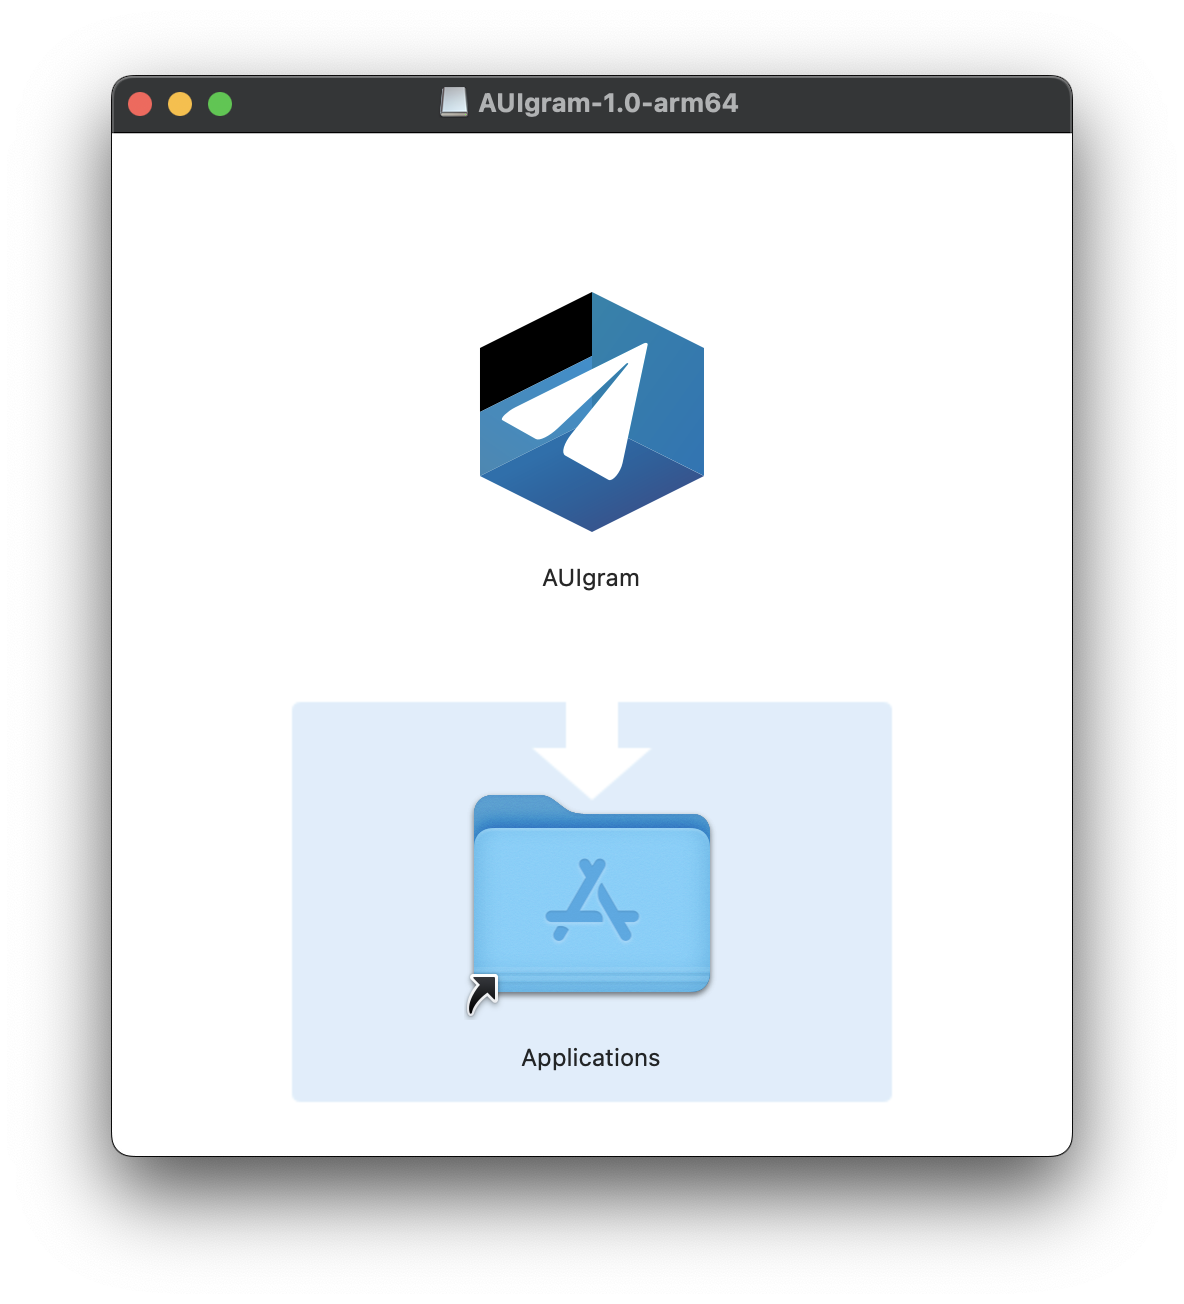
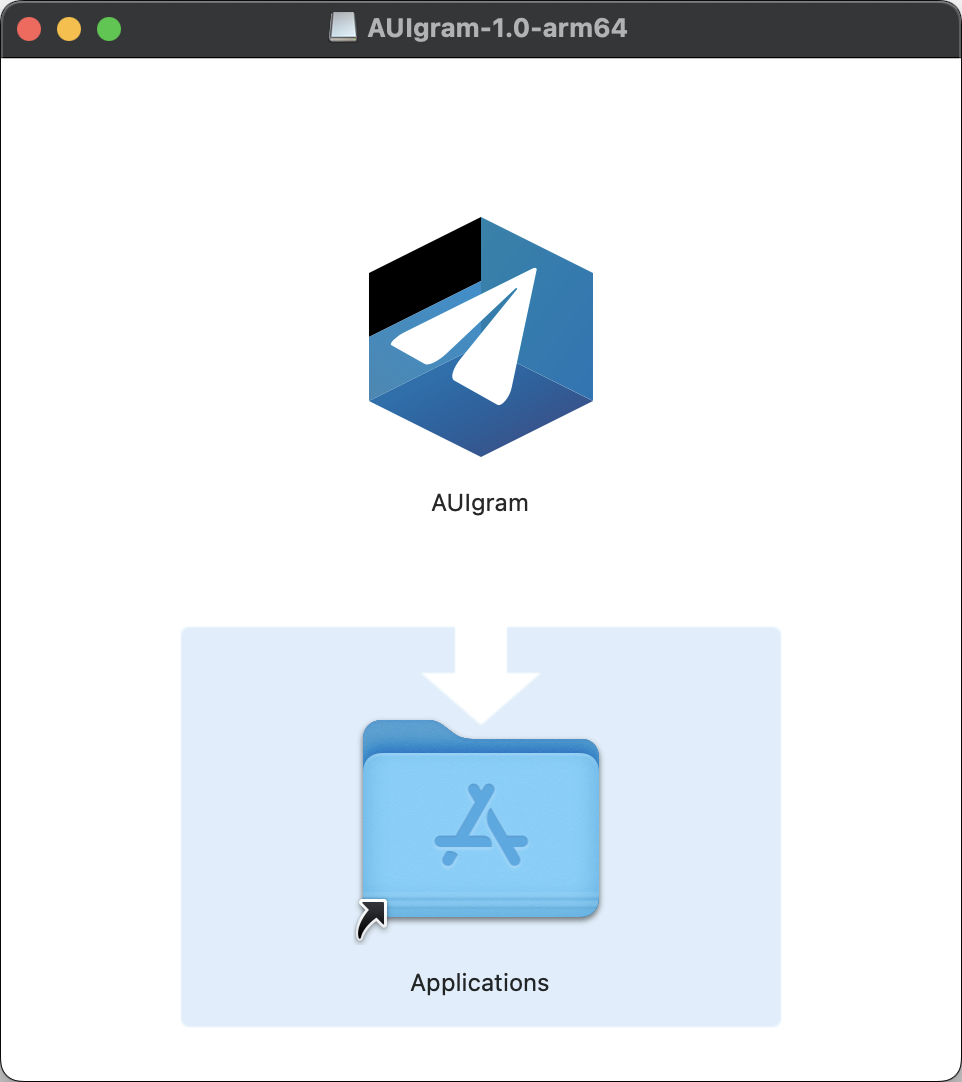
wip

diff --git a/doxygen/style.css b/doxygen/style.css
@@ -109,3 +109,7 @@ table.doxtable td, table.doxtable th {
     line-height: normal !important;
     margin: 48px 0 96px;
 }
+
+.dark-mode-keep-imgs img {
+    filter: none !important;
+}

diff --git a/doxygen/gen/aui_app_dmg.py b/doxygen/gen/aui_app_dmg.py
@@ -1,0 +1,12 @@
+#  AUI Framework - Declarative UI toolkit for modern C++20
+#  Copyright (C) 2020-2024 Alex2772 and Contributors
+#
+#  SPDX-License-Identifier: MPL-2.0
+#
+#  This Source Code Form is subject to the terms of the Mozilla Public
+#  License, v. 2.0. If a copy of the MPL was not distributed with this
+#  file, You can obtain one at http://mozilla.org/MPL/2.0/.
+
+import common.aui_app
+
+common.aui_app.list_all_vars_containing('DMG')

diff --git a/docs/Setting App Icon.md b/docs/Setting App Icon.md
@@ -5,7 +5,38 @@ overall user experience. Approach to app icon briefly resembles the overall qual
 While making distinct visuals for every platform can be challenging, AUI is here to help you to produce
 professional-grade app icons while preserving targeted platform's specifics.
 
-# Abstract
+@ref docs/aui_app.md is a CMake command provided by AUI that defines platform-specific technical information about your
+application, including @ref aui_app_ICON "ICON".
+
+```cmake
+aui_app(TARGET app_target
+        NAME "My App"
+        ICON "icon.svg")
+```
+
+`aui.toolbox` is used by `aui_app` to convert icon to platform-specific formats.
+
+AUI forces you to use SVG to ensure your icon renders correctly on all platforms.
+In addition, the usage of SVG avoids image pixelization on HiDPI (High Dots Per Inch) displays.
+
+If you only have images in raster formats (such as PNG, ICO, etc.) you need to vectorize by tracing the image.
+Modern vector image editors (such as Adobe Illustrator or Inkscape) have built-in tools to perform this procedure. If you wish, you can also use various online vectorizers.
+
+## Vectorization using Inkscape
+
+For instance, let's see how to vectorize your image using Inkscape editor. Just follow the next instruction:
+* First, import a suitable bitmap image by using the menu File → Import.
+* Select the image with the Selector tool.
+* In the menu, go to Path → Trace Bitmap.
+* A dialog will open where you can set different options. Play with them a little to get a better result.
+* When the result of the preview looks right, click Ok. The vectorized image will be available right on the canvas.
+* Remove your old raster bitmap and export got image in SVG format.
+
+## Known issues
+
+* AUI's SVG renderer does not show up SVG paths. The easiest solution is convert paths to polygons (shapes) in modern vector editor.
+
+# Shaping
 
 Modern operating systems tend to enforce icon shape to unify their launchers. For example, iOS is known for its
 distinctive "squircle" shape, a unique combination of square and circle with subtle curvature that deviates from the
@@ -19,11 +50,12 @@ For that being said, a typical shape-agnostic app icon consists of:
   Occasionally, it may incorporate gradients or abstract shapes to add visual interest. As the background layer often
   gets masked, its simplicity is key - it doesn't clutter the icon with important visual information, instead using
   colors playfully.
-- a **foreground** layer that typically holds a logo or other critical graphics. To ensure clean look it should be
+- a **foreground** layer(s) that typically holds a logo or other critical graphics. To ensure clean look it should be
   padded to fit naturally within icon's boundary which as was mentioned may differ.
 
 On the other hand, Windows and Linux applications tend to have non-uniform shapes.
 
+<div class="dark-mode-keep-imgs">
 <table>
 <tr>
 <th>Platform</th>
@@ -35,36 +67,41 @@ On the other hand, Windows and Linux applications tend to have non-uniform shape
 </tr>
 <tr>
 <td>Android</td>
-<td></td>
+<td>@image html icons_android.png </td>
 <td><a href="https://developer.android.com/distribute/google-play/resources/icon-design-specifications">Google</a></td>
 </tr>
 <tr>
 <td>iOS</td>
-<td rowspan="2"></td>
-<td rowspan="2"><a href="https://developer.apple.com/design/resources/#macos-apps">Apple</a></td>
+<td rowspan="2">@image html icons_apple.png </td>
+<td rowspan="2">
+  <a href="https://developer.apple.com/design/human-interface-guidelines/app-icons">Apple Developer</a><br/>
+  <a href="https://developer.apple.com/design/resources/#macos-apps">Apple Design Resources</a>
+</td>
 </tr>
 <tr>
-<td>macOS</td>
+<td>macOS<br/>(with some exceptions)</td>
 </tr>
 <tr>
 <td colspan="3" style="text-align: center"><i> - freeform trend - </i></td>
 </tr>
 <tr>
 <td>Windows</td>
-<td></td>
+<td>@image html icons_win.png </td>
 <td><a href="https://learn.microsoft.com/en-us/windows/apps/design/style/iconography/app-icon-design">Microsoft</a></td>
 </tr>
 <tr>
 <td rowspan="3">Linux</td>
-<td></td>
+<td rowspan="3">
+@image html icons_gnome.png
+@image html icons_kde.png
+</td>
 <td><a href="https://docs.flathub.org/docs/for-app-authors/metainfo-guidelines/quality-guidelines/">Flathub</a></td>
 </tr>
 <tr>
-<td></td>
 <td><a href="https://developer.gnome.org/hig/guidelines/app-icons.html">GNOME</a></td>
 </tr>
 <tr>
-<td></td>
 <td><a href="https://develop.kde.org/hig/icons/colorful/">KDE</a></td>
 </tr>
 </table>
+</div>

diff --git a/docs/aui_app.md b/docs/aui_app.md
@@ -86,7 +86,7 @@ Specify application display name that would appear in system's UIs (i.e., start 
 
 @pythongen{aui_app_NAME}
 
-### ICON
+### ICON {#aui_app_ICON}
 
 Specify SVG icon location (defaults to `icon.svg` if exists).
 
@@ -100,33 +100,10 @@ See @ref "docs/Setting App Icon.md" for best practices.
 | Android  | +        | generates icon assets from your `svg`                 |
 | iOS      | +        | generates `*.icns` file from your `svg`               |
 
-`aui_app` generates image assets from your icon depending on the @ref "docs/Packaging Your App.md" "app packaging method"
+Using `aui.toolbox`, `aui_app` generates image assets from your icon depending on the @ref "docs/Packaging Your App.md" "app packaging method"
 chosen.
 
-
 @pythongen{aui_app_ICON}
-
-#### Why SVG?
-
-AUI forces you to use SVG to ensure your icon renders correctly on all platforms.
-In addition, the usage of SVG avoids image pixelization on HiDPI (High Dots Per Inch) displays.
-
-If you only have images in raster formats (such as PNG, ICO, etc.) you need to vectorize by tracing the image.
-Modern vector image editors (such as Adobe Illustrator or Inkscape) have built-in tools to perform this procedure. If you wish, you can also use various online vectorizers.
-
-#### Vectorization using Inkscape
-
-For instance, let's see how to vectorize your image using Inkscape editor. Just follow the next instruction:
-* First, import a suitable bitmap image by using the menu File → Import.
-* Select the image with the Selector tool.
-* In the menu, go to Path → Trace Bitmap.
-* A dialog will open where you can set different options. Play with them a little to get a better result.
-* When the result of the preview looks right, click Ok. The vectorized image will be available right on the canvas.
-* Remove your old raster bitmap and export got image in SVG format.
-
-#### Known issues
-
-* AUI's SVG renderer does not show up SVG paths. The easiest solution is convert paths to polygons (shapes) in modern vector editor.
 
 ### VENDOR
 

diff --git a/docs/Packaging Your App.md b/docs/Packaging Your App.md
@@ -1,6 +1,10 @@
 Cross-platform app packaging is a large topic that involves various build systems, platform-specific tools and
 techniques. AUI unifies package building process while still relying on `CMake` as the central build system.
 
+AUI Framework focuses on minimizing efforts for AUI-based project to produce production-ready packages as easily as
+possible. AUI refrains from self-promotion in placeholders and "default values"; instead it carefully uses the
+information about your project passed to @ref docs/aui_app.md where needed.
+
 @ref docs/aui_app.md is a CMake command provided by AUI that defines platform-specific technical information about your
 application:
 - Display name
@@ -110,8 +114,14 @@ The simplest and the most user-friendly installation method is `DragNDrop` which
 
 ## DragNDrop
 
-The DranDrop CPack generator creates a DMG image. When opened, it shows macOS app bundle with your application and a
+The DranDrop CPack generator creates a DMG image. When opened, a Finder window appears with your application and a
 symlink to `/Applications`, effectively prompting the user to copy the application from the medium to his app library.
+
+Default DMG image produced by CPack is sparse: it's just a regular Finder window with sidebar and top bar showing
+your application bundle and a symlink. @ref docs/aui_app.md configures CPack to rearrange icons and place a background
+image so no extra configuration by a AUI-based project is needed:
+
+@image html dmg.png
 
 ```python
 # standard CMake build process
@@ -123,3 +133,9 @@ cmake --build . --config Release
 # packaging
 cpack . -c Release
 ```
+
+@pythongen{aui_app_dmg}
+
+# Android and iOS
+
+Please refer to [cross-compiling](docs/Crosscompiling.md).
